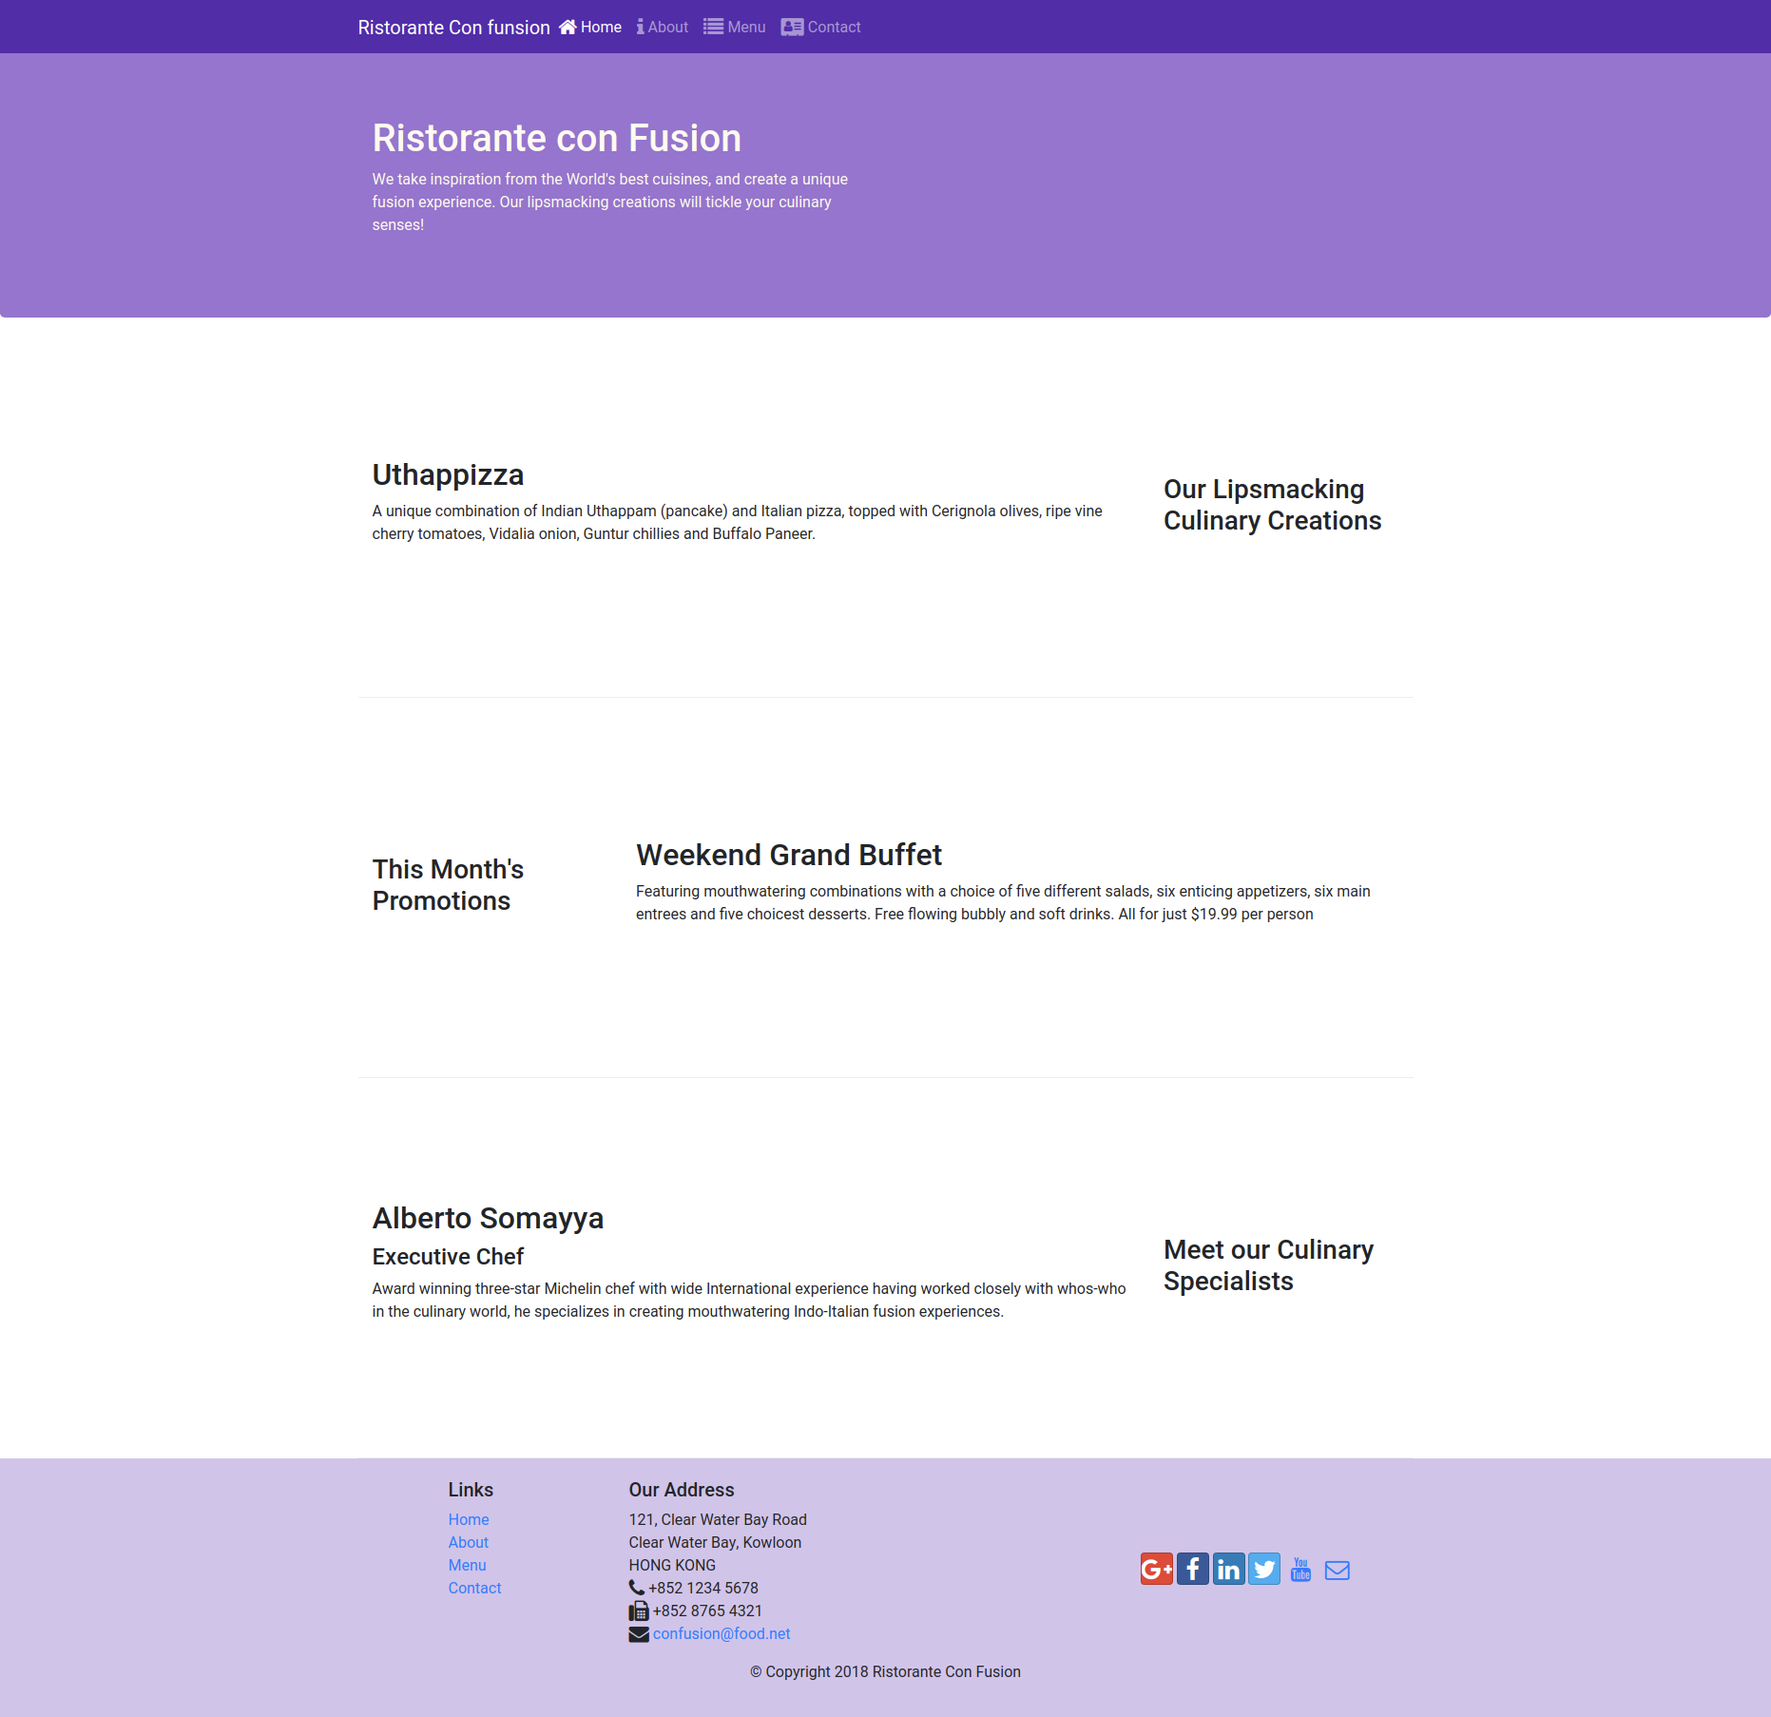
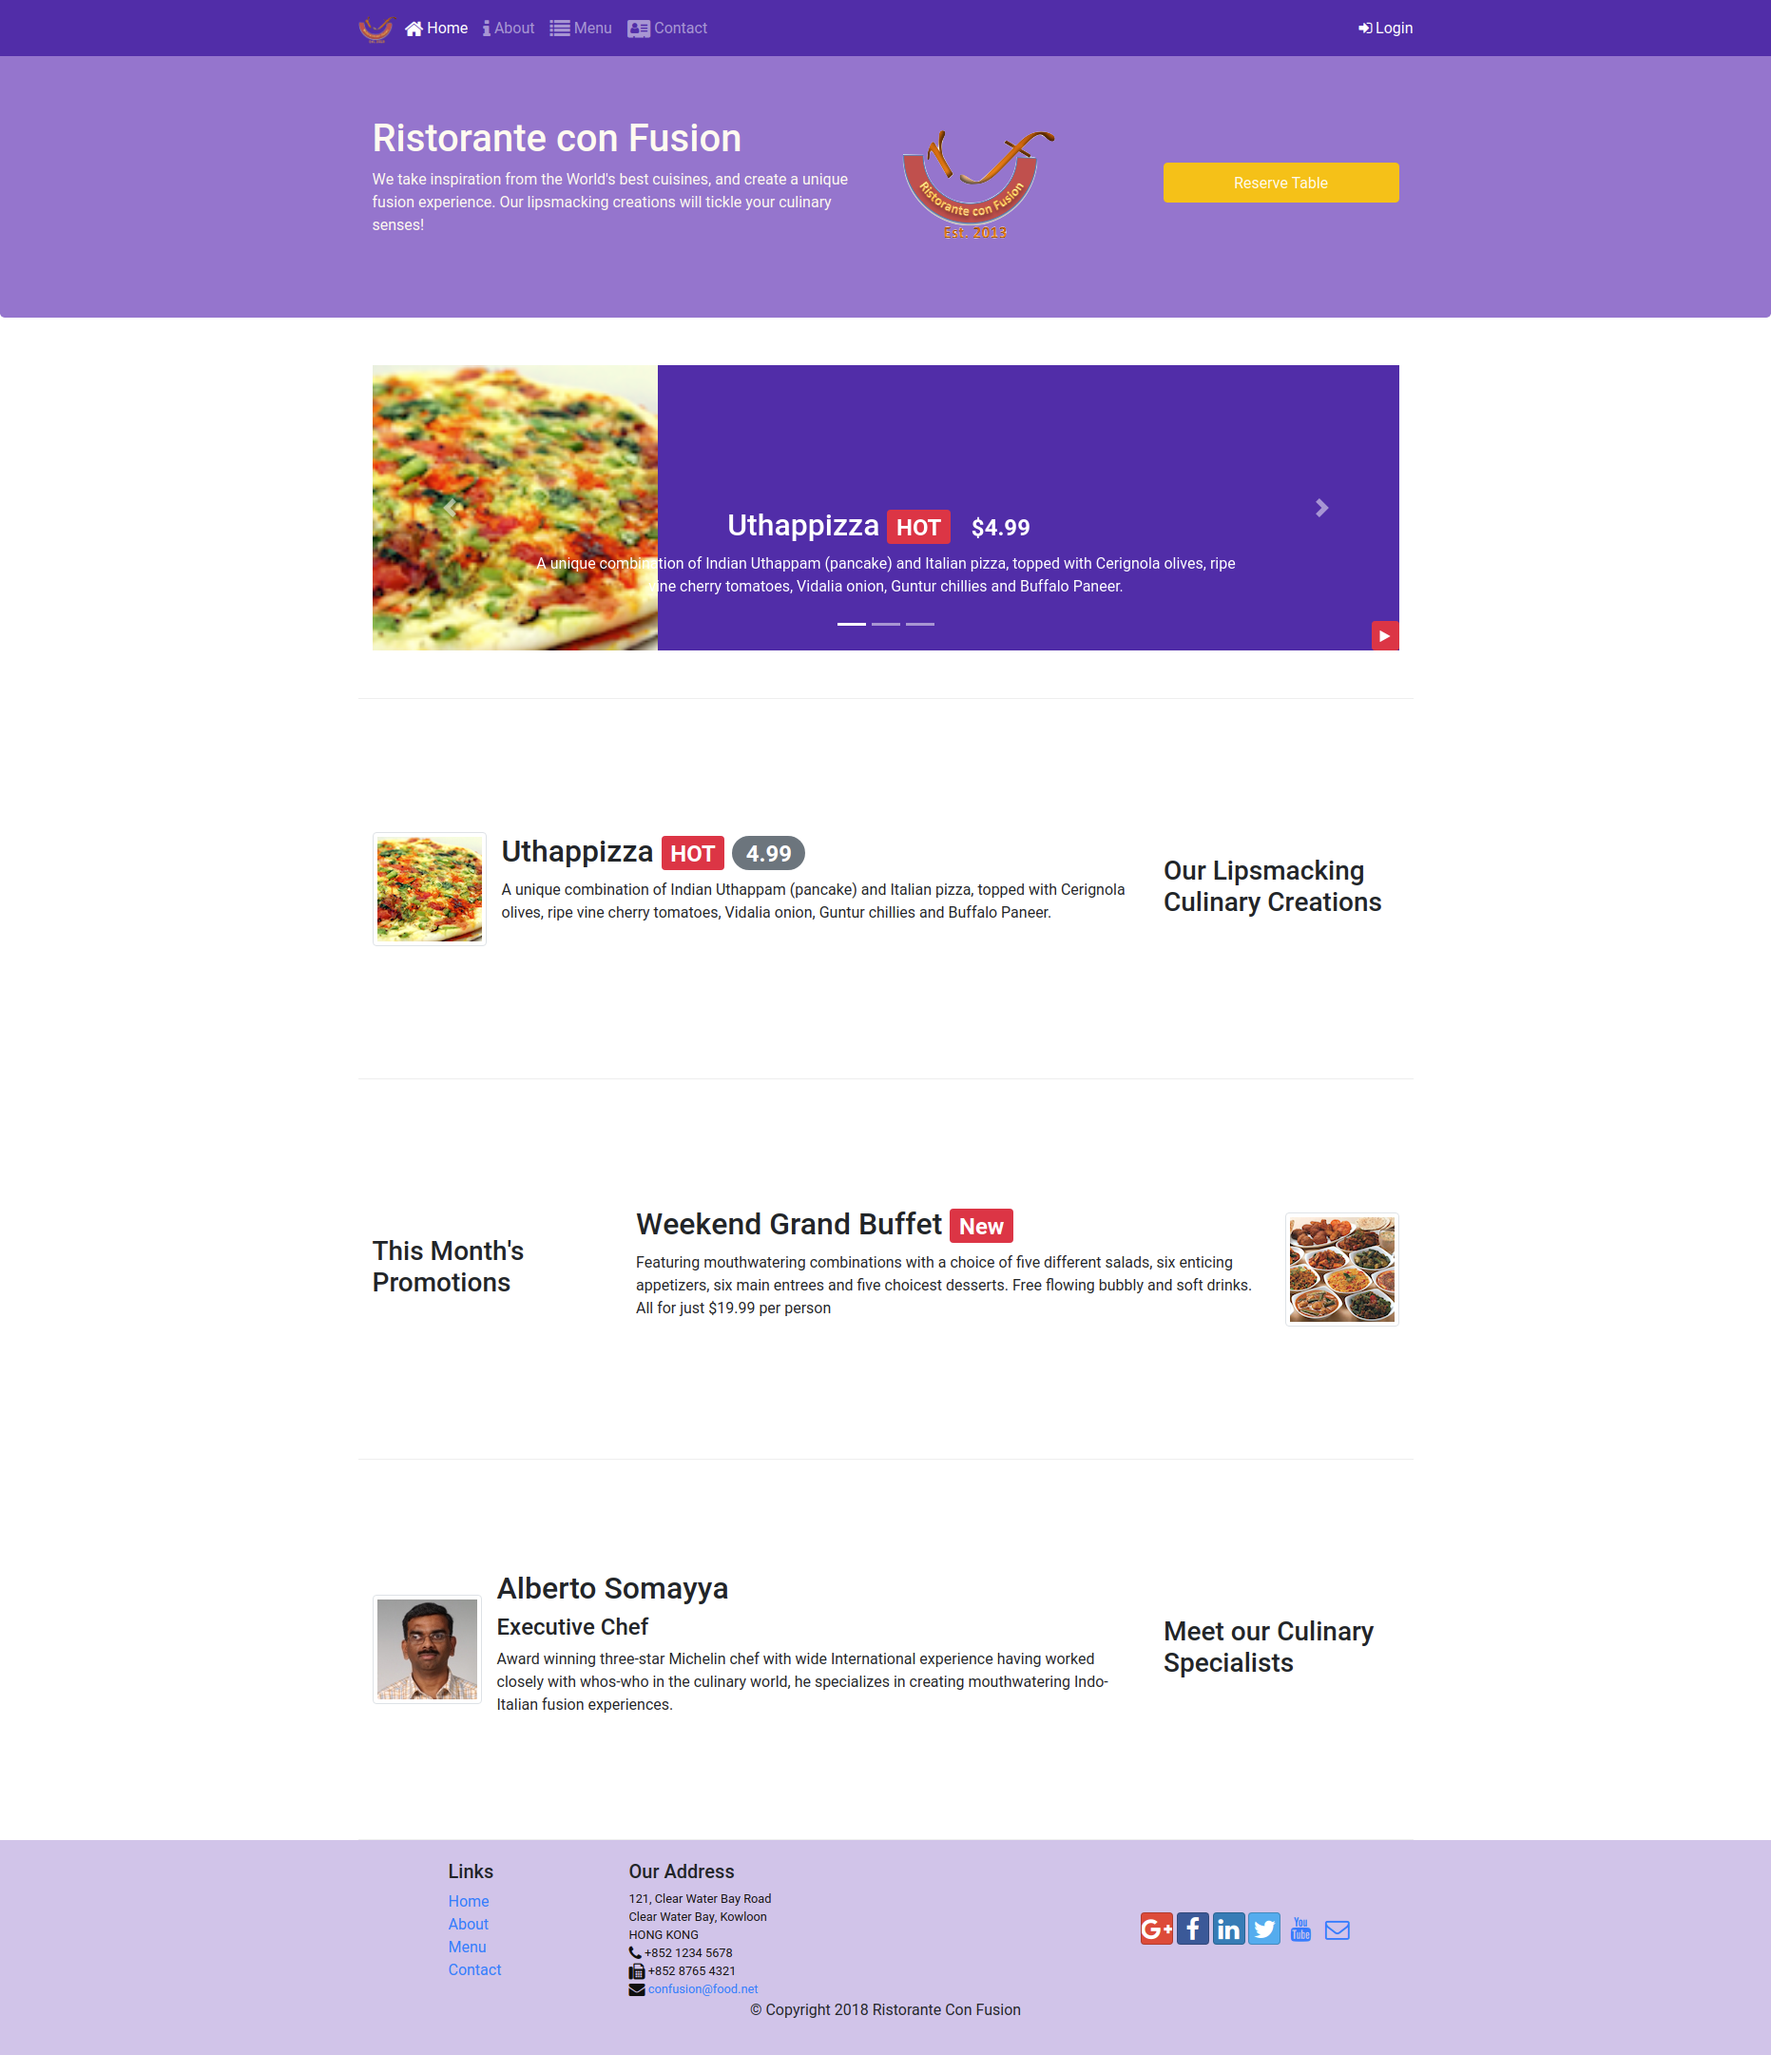
adjust readme

diff --git a/Course1Boostrap/conFusionWebSite/index.html b/Course1Boostrap/conFusionWebSite/index.html
@@ -40,7 +40,7 @@
                     <!-- mr-auto push left as much as needed. -->
                     <ul class="navbar-nav mr-auto">
                         <li class="nav-item active">
-                            <a class="nav-link" href="#">
+                            <a class="nav-link" href="./index.html">
                                 <span class="fa fa-home fa-lg"></span> 
                                  Home
                             </a>

diff --git a/Course1Boostrap/conFusionWebSite/aboutus.html b/Course1Boostrap/conFusionWebSite/aboutus.html
@@ -42,7 +42,7 @@
                     <!-- mr-auto push left as much as needed. -->
                     <ul class="navbar-nav mr-auto">
                         <li class="nav-item">
-                            <a class="nav-link" href="/">
+                            <a class="nav-link" href="./index.html">
                                 <span class="fa fa-home fa-lg"></span> 
                                  Home
                             </a>

diff --git a/Course1Boostrap/conFusionWebSite/contactus.html b/Course1Boostrap/conFusionWebSite/contactus.html
@@ -34,7 +34,7 @@
                     <!-- mr-auto push left as much as needed. -->
                     <ul class="navbar-nav mr-auto">
                         <li class="nav-item">
-                            <a class="nav-link" href="/">
+                            <a class="nav-link" href="./index.html">
                                 <span class="fa fa-home fa-lg"></span> 
                                  Home
                             </a>

diff --git a/Course1Boostrap/conFusionWebSite/README.md b/Course1Boostrap/conFusionWebSite/README.md
@@ -3,20 +3,32 @@
 This repository contains the web page built during the lessons of the course. 
 It will change as I move on the course.
 
+The end result can be visited in http://garisplace.com/full_stack_sp/project1/dist/index.html
+
 ## Folder structure
 
 ```
 ├── aboutus.html
 ├── contactus.html
 ├── css
-│   └── styles.css
+│   ├── styles.css
+│   ├── styles.less
+│   ├── styles-old.css
+│   └── styles.scss
 ├── helper
 │   ├── index.png
 │   └── log_installation
+├── img
+│   ├── alberto.png
+│   ├── buffet.png
+│   ├── logo.png
+│   └── uthappizza.png
 ├── index.html
+├── js
+│   └── scripts.js
 ├── package.json
 ├── package-lock.json
-└── README.md
+├── README.md
 ```
 
 ## Start lite server.
@@ -24,6 +36,6 @@ It will change as I move on the course.
 npm start
 ```
 
-## index.html preview as 31/07/2020
+## index.html preview as 26/08/2020
 
 <img src="./helper/index.png">
